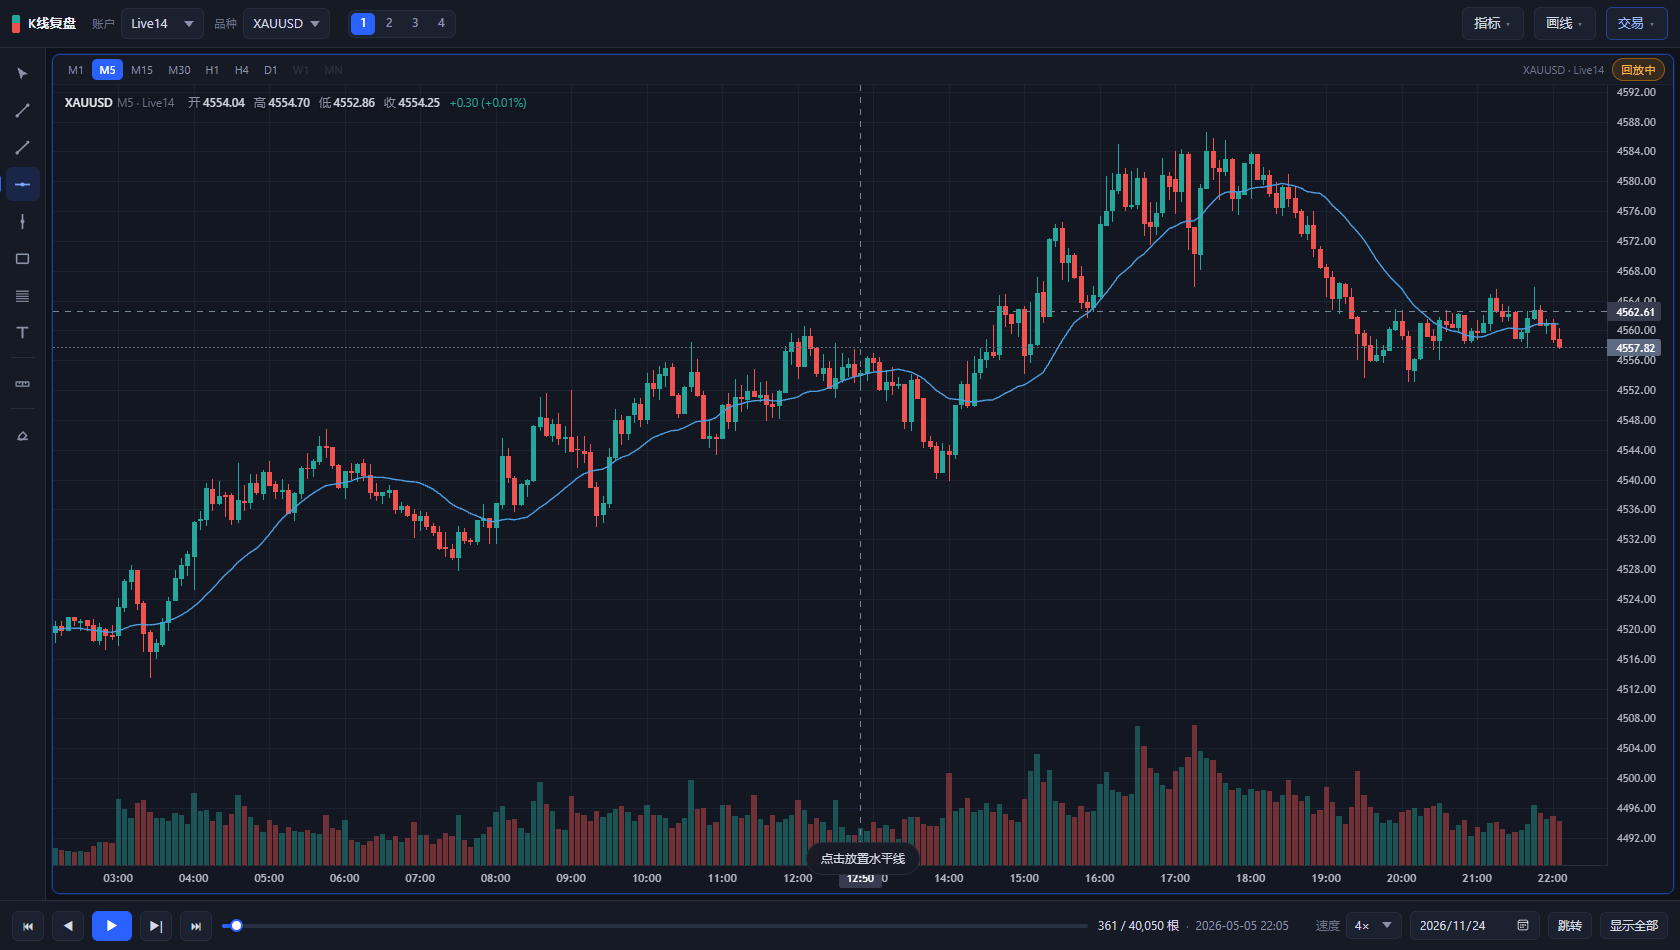
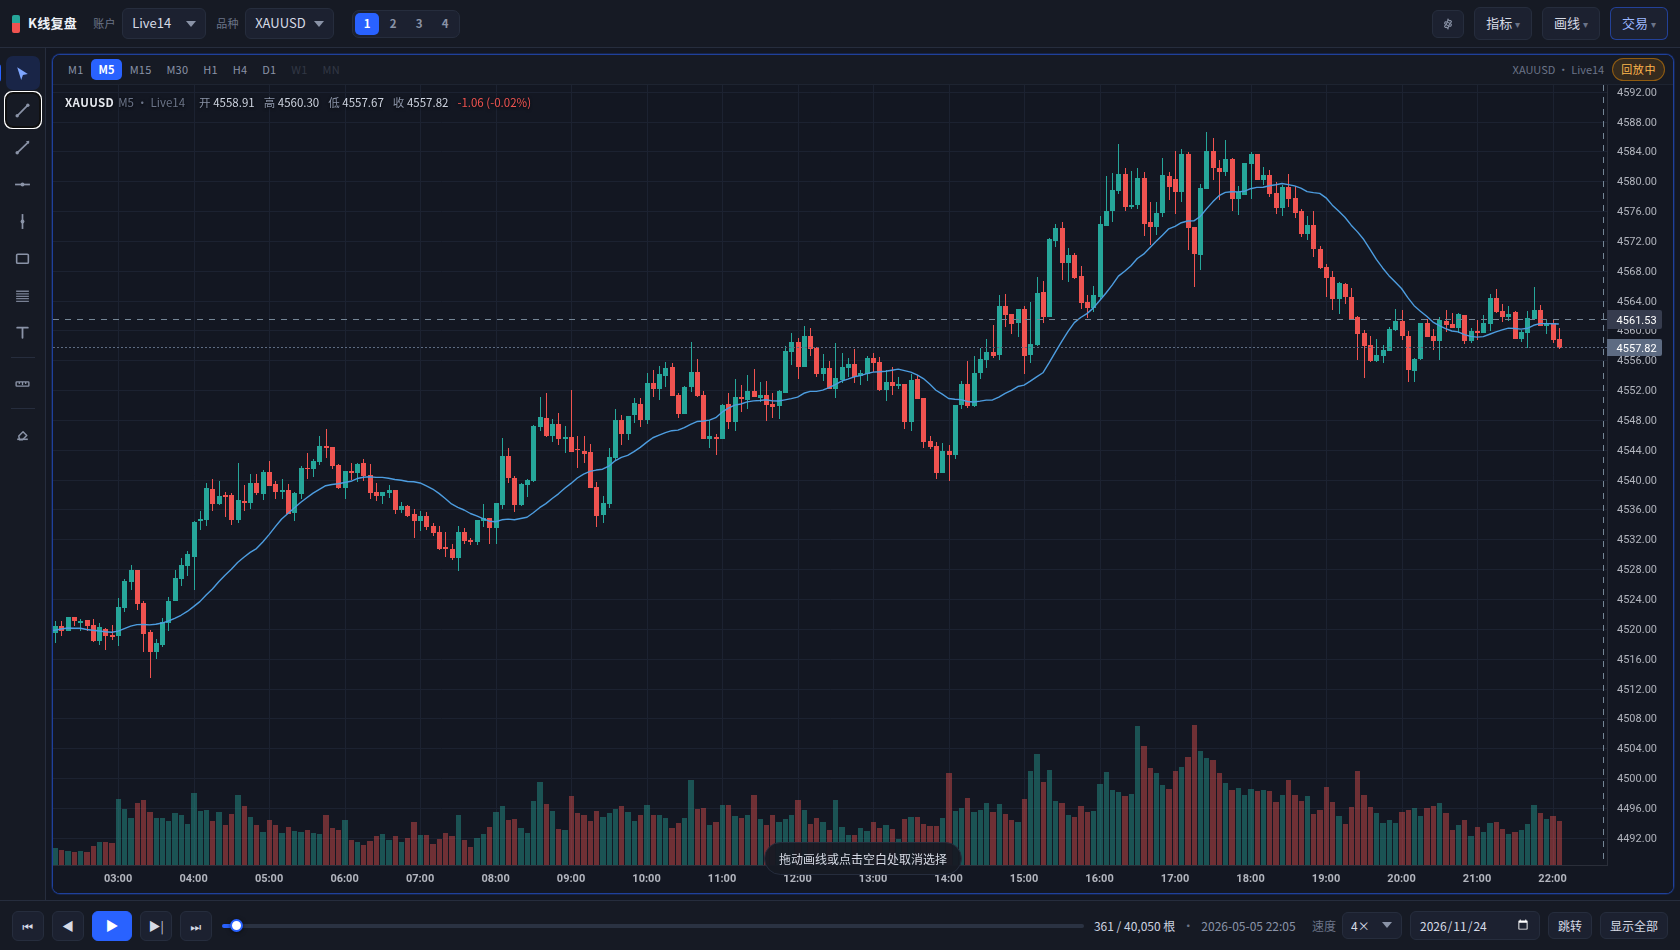
feat: 回放中画线端点可落在未来空白区
- 画线落点上界改为完整数据末尾, 起点/终点/拖动端点/测量均可进入未来区
- Ctrl 吸附仍限定已播放 K 线, 未来 OHLC 不泄漏
- verify9 增加未来落点断言与截图, verify10 更新回放边界断言
- 更新 README 与未来端点截图

diff --git a/web/js/drawings.js b/web/js/drawings.js
@@ -1,5 +1,7 @@
 /* 画图层 —— 叠加在 lightweight-charts 上的 canvas, 用 {time, price} 锚点存储,
-   因此随缩放/平移/回放自动跟随, 且可跨会话持久化。 */
+   因此随缩放/平移/回放自动跟随, 且可跨会话持久化。
+   回放时锚点可以落在游标之后的未来 K 线上 (最多到完整数据最后一根),
+   未来 K 线的 OHLC 仍然不参与吸附/预览, 避免提前暴露未来价格。 */
 (function (global) {
   'use strict';
 
@@ -202,7 +204,8 @@
     return { x: x, y: y };
   };
 
-  /** 已播放范围的最后一根 K 线下标。
+  /** 已播放范围的最后一根 K 线下标。只用于 Ctrl 吸附: 未来 K 线的 OHLC
+      不参与查找, 避免提前暴露未来价格。
       getCursor 由 app 注入 pane.cursor: 初始 0, 回放/显示全部时始终是数值下标;
       只有数据未装载时可能为空, 此时还没有回放边界, 退回全量是安全的。
       注: 不能用 Math.min(hi, null), 那会把范围误钳到首根。 */
@@ -215,10 +218,17 @@
     return Math.min(hi, Math.floor(cur));
   };
 
+  /** 画线落点可用的最后一根 K 线下标: 完整数据的末尾。
+      回放时游标之后的 K 线虽然还没渲染, 但数据已经在 pane.bars 里,
+      因此起点/终点/拖动端点都可以落在未来 K 线上; 超出数据末尾时贴住最后一根。 */
+  DrawingLayer.prototype._placeLimit = function (bars) {
+    return bars.length - 1;
+  };
+
   DrawingLayer.prototype.pointOf = function (x, y) {
     var bars = this.getBars() || [];
     if (!bars.length) return null;
-    var limit = this._playedLimit(bars);   // 不能画到未来
+    var limit = this._placeLimit(bars);
     if (limit < 0) return null;
     var logical = this.chart.timeScale().coordinateToLogical(x);
     if (logical === null || logical === undefined) return null;
@@ -230,8 +240,9 @@
     return { time: bars[idx].time, price: price };
   };
 
-  /** 按时间取已播放范围内的 K 线。
-      回放游标之后的 bar 不参与吸附, 避免把未来 K 线的 OHLC 泄漏到预览/锚点。 */
+  /** 按时间取已播放范围内的 K 线 (Ctrl 吸附专用)。
+      回放游标之后的 bar 不参与吸附, 避免把未来 K 线的 OHLC 泄漏到预览/锚点;
+      落点本身允许落在未来 K 线上, 见 pointOf/_placeLimit。 */
   DrawingLayer.prototype._barForTime = function (time) {
     var bars = this.getBars ? this.getBars() : null;
     if (!bars || !bars.length) return null;

diff --git a/README.md b/README.md
@@ -46,10 +46,10 @@ powershell -ExecutionPolicy Bypass -File scripts\start.ps1 -Port 9000
 | 位置记忆 | 离开时自动记住播放位置，下次打开同一「账户+品种+周期」进度条直接回到原处 |
 | 指标 | 主图 MA5/10/20/60、EMA20、布林带(20,2)、成交量（可开关）；副图 MACD(12,26,9) / RSI(14) |
 | 图表外观 | TradingView 风格设置：背景色、网格显隐/颜色/透明度/线型、K线实体/边框/影线颜色与透明度、十字光标、成交量透明度、最新价线；内置深色 / 浅色 / 午夜蓝预设，所有窗格共用并本地持久化 |
-| 画线 | 趋势线、射线、水平线、垂直线、矩形、斐波那契、文字、测量 |
+| 画线 | 趋势线、射线、水平线、垂直线、矩形、斐波那契、文字、测量；回放中起点/终点可落在游标之后的空白未来区 |
 | 画线编辑 | 选中、拖整条、拖端点、删除、撤销、清空、导出/导入 JSON |
 | 画线样式 | 双击画线打开样式面板：线条/文字颜色、整体透明度；矩形可单独设边框色、填充色、填充透明度；斐波那契可增删水平位、改比例（支持 -0.5、1.618 等任意值）和逐条配色；可存为同类新画线的默认样式 |
-| 精确定位 | 画线落点 / 拖端点时按住 **Shift** 横向锁定（拖整条线同样生效）；按住 **Ctrl** 吸附到鼠标所在 K 线最近的 开/高/低/收 |
+| 精确定位 | 画线落点 / 拖端点时按住 **Shift** 横向锁定（拖整条线同样生效）；按住 **Ctrl** 吸附到鼠标所在 K 线最近的 开/高/低/收；回放时只吸附已播放 K 线 |
 | 复制对象 | **Ctrl + 拖动线体** → 原地留一份、拖走一份副本（拖两点工具端点是吸附；单点工具仍复制；Ctrl+单击不会误建） |
 | 持久化 | 画线按「账户+品种+周期」存在浏览器 localStorage，刷新/重启都还在 |
 | 模拟交易 | 在回放位置开多/开空、设止损止盈，逐根推进时自动结算；实时浮动盈亏 + 总盈亏/胜率/盈亏比/最大回撤，可导出 CSV；历史仓位可在图上显示/隐藏 |
@@ -146,7 +146,9 @@ powershell -ExecutionPolicy Bypass -File scripts\start.ps1 -Port 9000
 - 两点工具落下第一点后，按住 `Shift` 移动鼠标：价格锁在第一点，只横向移动；拖端点同样锁原价，拖整条线则整条水平平移（`Shift` 与 `Ctrl` 同时按住时，横向锁定优先）。
 - 按住 `Ctrl` 移动鼠标：取鼠标所在 K 线（横坐标最近的一根）的 `open / high / low / close`，按指针与四个价位的屏幕距离选最近的一个吸附。预览里会画一个黄圈并标出 `H 3638.18` 这样的目标价位，松手前就能确认。
 - 光标模式下拖**线体**时 `Ctrl` 仍用于复制；拖**两点工具的端点**则按上面的规则吸附。单点工具（水平线/垂直线/文字）没有独立端点，`Ctrl` 拖动仍复制；放置时它们同样支持 `Ctrl` 吸附。
-- 回放状态下 `Ctrl` 吸附只在已播放的 K 线里查找；鼠标移到游标右侧也会贴回游标那根，不会提前暴露未来价格。
+- 回放状态下 `Ctrl` 吸附只在已播放的 K 线里查找。鼠标移到游标右侧时落点不再贴回游标，而是落在对应的未来 K 线时间上；按住 `Ctrl` 也不会吸附未来 K 线的 OHLC，不会提前暴露未来价格。
+
+**回放中画到未来**：游标右侧的空白区也可以落点（最多到本地数据最后一根）。用光标模式把图表向左拖，就能露出更多未来空白，再把趋势线 / 矩形 / 斐波那契的终点放进去。
 
 画线锚点存的是 `{时间, 价格}`，所以缩放、平移、回放都不会跑位。
 
@@ -168,14 +170,17 @@ powershell -ExecutionPolicy Bypass -File scripts\start.ps1 -Port 9000
 
 ![未来画线](shots/16-future-drawings.png)
 
-回放时游标之后的 K 线是隐藏的，但画线不会因此整条消失：
+回放时游标之后的 K 线不渲染，但画线锚点可以落在游标右侧的空白未来区：
 
+- 两点工具的起点和终点都能点在未来空白区，趋势线 / 矩形 / 斐波那契会直接画在空白区，直到播放推进到那些 K 线
+- 只要落在可视区内就正常绘制，超出可视区的部分只是被画布裁剪（不是代码把整条未来画线隐藏）
 - **水平线只依赖价格**，与锚点时间无关 → 永远整条显示
-- 趋势线 / 矩形 / 斐波那契等，只要有一部分落在已播放区间，就会一直画到可视区右边缘（超出的部分被裁掉）
-- 整条都落在游标之后时仍然隐藏——避免提前看到「未来」的图形
+- 未来锚点只存 `{时间, 价格}`，不读取未来 K 线的 OHLC；`Ctrl` 吸附仍只在已播放 K 线里查找
+- 想看更远的未来：先用光标模式把图表向左拖（或用滚轮缩小图表），再选画线工具；最多只能到本地数据最后一根
 
-> 原因：lightweight-charts 的 `timeToCoordinate` 只认识**当前渲染**的 K 线，未播放的返回 `null`，整条画线就被跳过了。
-> 现在改为回退到「完整数据的下标 → `logicalToCoordinate`」外推，坐标算得出来，只是可能落在屏幕外。
+![端点落在未来空白区](shots/20-future-endpoint.png)
+
+> 坐标原理：lightweight-charts 的 `timeToCoordinate` 只认识**当前渲染**的 K 线，未播放的返回 `null`；画线层用完整数据的下标走 `logicalToCoordinate` 算出坐标。未来锚点会随播放推进自然变成普通锚点，不会跳位。
 
 ## 模拟交易怎么用
 
@@ -328,8 +333,8 @@ npm run verify:order # 17 项断言（视图变化自动重绘、右键菜单、
 npm run verify:sl    # 15 项断言（SL/TP 按钮拖拽、跟踪止损、按现价夹紧、持久化）
 npm run verify:copy  # 13 项断言（Ctrl 复制、播放位置记忆、按周期隔离）
 npm run verify:layout # 33 项断言（1/2/3/4 窗格、上下/左右分屏、拖动分隔线、独立周期、跨窗格时间轴同步）
-npm run verify:future # 8 项断言（回放到锚点之前画线不消失、像素级确认已绘制）
-npm run verify:snap  # 32 项断言（Shift/Ctrl/⌘ 定位、端点吸附、单点复制、回放边界、窗格销毁释放）
+npm run verify:future # 13 项断言（回放到锚点之前画线不消失、未来空白区可落点、像素级确认已绘制）
+npm run verify:snap  # 33 项断言（Shift/Ctrl/⌘ 定位、端点吸附、单点复制、回放边界、窗格销毁释放）
 npm run verify:style # 24 项断言（样式入口、矩形配色/旧矩形同步、低透明度显示、fib 自定义与非法值、旧数据兼容、撤销同步/空栈、measure 无入口、存储失败提示、持久化）
 npm run verify:chart-style # 37 项断言（默认外观、网格开关/颜色/线型、背景与取消回滚、K线实体/边框/影线透明度、成交量、十字光标、预设、恢复默认、刷新持久化、多窗格继承、右键入口、Esc 回滚、只改背景不重建成交量、播放中应用设置、播放中改回原色、默认图例配色、真实画布重绘、浅色 SL/TP、脏数据清洗）
 ```
@@ -385,6 +390,7 @@ PYTHON_BIN=/usr/bin/python3.12 ./scripts/start.sh
 
 - 图表时间轴按 UTC 显示（即 MT4 服务器时间），不随系统时区偏移。
 - 画线只在同一「品种+周期」内可见，切换周期不通用。
+- 回放中的未来锚点最多落在本地数据的最后一根 K 线；点击超出数据末尾的空白会贴到最后一根。右侧未来空白能露出多少取决于当前视口，需要时先平移/缩放。
 - 模拟交易同一品种同一时间只允许一个持仓，不支持分批加仓/对冲锁仓。
 - 成交价用的是止损/止盈价本身，没有模拟点差和滑点。
 - 只支持桌面浏览器；小屏会挤，但可用。
